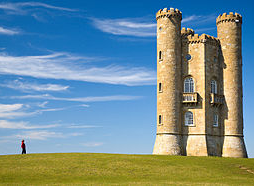
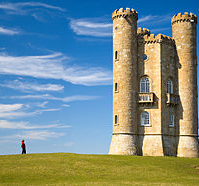
add minor ui changes

diff --git a/src/main.rs b/src/main.rs
@@ -10,28 +10,36 @@ use std::error::Error;
 
 fn main() -> Result<(), Box<dyn Error>> {
 
+    // GUI:
     let app = app::App::default().with_scheme(app::Scheme::Gleam);
-    let mut win = Window::default().with_size(800, 600);
-    let mut originalFrame = Frame::default().size_of(&win).with_pos(-200, 0);
-    let mut resultFrame = Frame::default().size_of(&win).with_pos(200, 0);
-    let mut but = button::Button::new(350,100, 100, 40, "Click");
-    let input = input::Input::new(350, 50, 100, 40, "Pixels ot reduce:");
+    let mut win = Window::default().with_size(1000, 600);
+    let mut originalFrame = Frame::default().size_of(&win).with_pos(-250, 100);
+    let mut resultFrame = Frame::default().size_of(&win).with_pos(250, 100);
+    let mut but = button::Button::new(450, 125, 100, 40, "Click");
+    let mut input = input::Input::new(450, 75, 100, 40, "Pixels to reduce:");
 
+    // Setting frames:
     let mut image = SharedImage::load(Path::new("D:\\Documents\\University\\3rd_course\\Rust\\fltk\\workspace\\data\\sample2.png"))?;
-    image.scale(320, 240, true, true);
-
+    image.scale(400, 275, true, true);
     originalFrame.set_image(Some(image.clone()));
-    resultFrame.set_image(Some(image));
+    originalFrame.set_label("Original image");
+    resultFrame.set_image(Some(image.clone()));
+    resultFrame.set_label("Result image");
 
+    // Button visuals:
+    but.clear_visible_focus();
+    but.set_color(Color::White);
+
+    // Window visuals:
+    win.set_color(Color::DarkCyan);
     win.make_resizable(true);
+
     win.end();
     win.show();
 
     let (s, r) = app::channel::<bool>();
     but.emit(s, true);
-
     let mut resultImage: SharedImage;
-
     while app.wait().unwrap() {
         let seamsNumber = input.value();
         match r.recv() {
@@ -39,17 +47,19 @@ fn main() -> Result<(), Box<dyn Error>> {
                 if msg {
                     let mut img = image_data::ImageData::new(String::from("data/sample2.png")).unwrap();
                     resultFrame.set_image(None::<SharedImage>);
-                    win.set_label("Processing!");
+                    win.set_label("Processing, please wait!");
                     match img.seam_carving(seamsNumber.parse::<u32>().unwrap()) {
                         Ok(true) => {
                             resultFrame.set_image(None::<SharedImage>);
                             resultFrame.hide();
                             resultImage = SharedImage::load(Path::new("D:\\Documents\\University\\3rd_course\\Rust\\seam_carving\\data\\seam_carving.png"))?;
-                            resultImage.scale((320 - seamsNumber.parse::<i32>().unwrap()), 240, true, true); 
-                            // resultImage.scale(320, 240, true, true); 
+                            resultImage.scale((400 - seamsNumber.parse::<i32>().unwrap()), 275, false, true); 
                             resultFrame.set_image(Some(resultImage));
                             resultFrame.show();
                             win.set_label("Ready!");
+                            //
+                            but.hide();
+                            input.set_label("Reduced pixels:");
                         },
                         Ok(false) => (),
                         Err(E) => win.set_label("Error!"),
